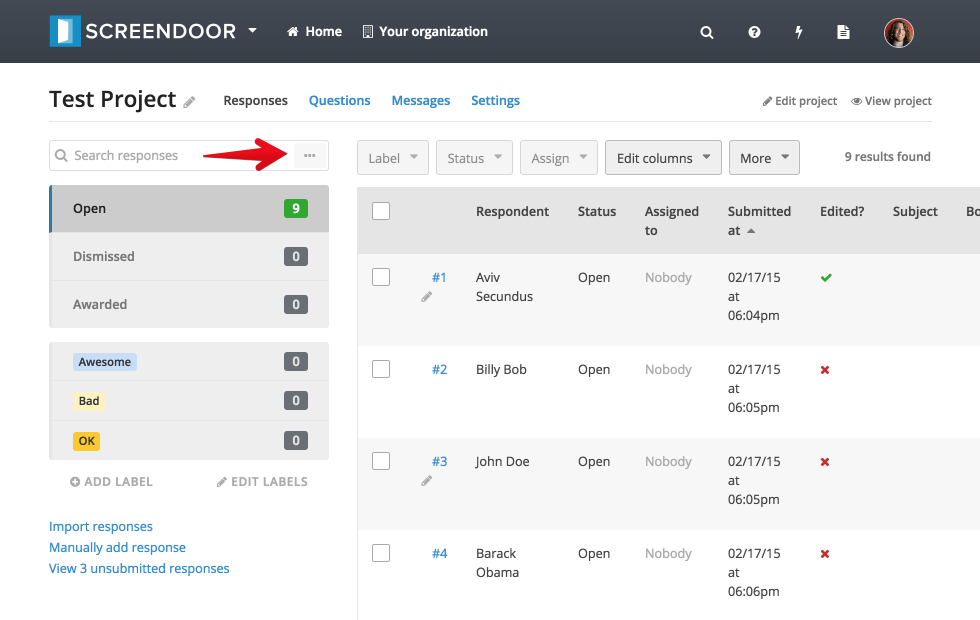
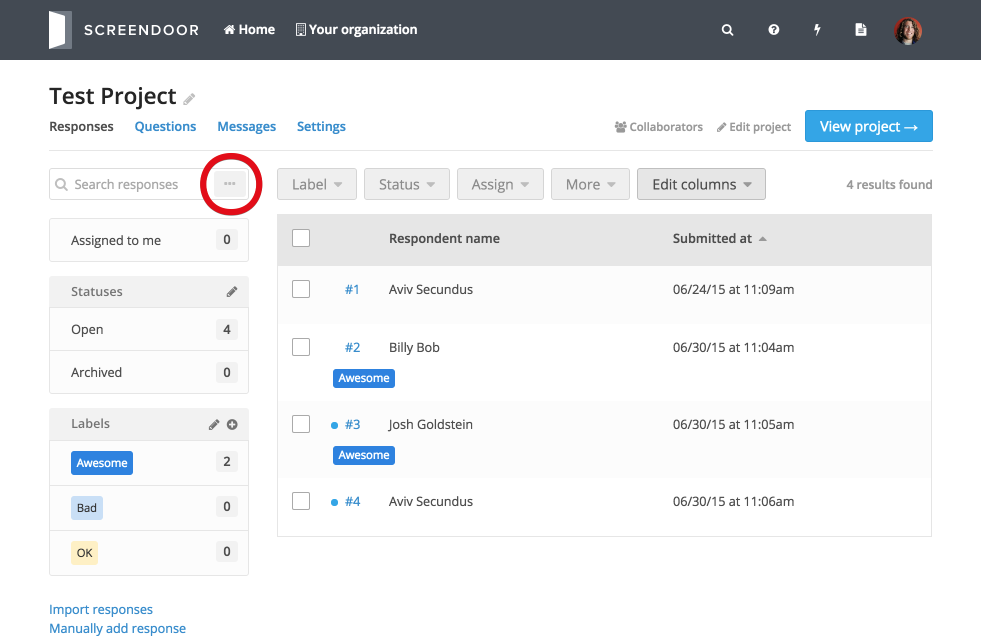
add saved searches
also move 'advanced search' to its own section
cf. https://github.com/dobtco/screendoor-v2/pull/2174

diff --git a/contents/articles/screendoor/responses/sorting_and_filtering_responses.md b/contents/articles/screendoor/responses/sorting_and_filtering_responses.md
@@ -33,15 +33,23 @@ To filter by status, select the box just below the search field that displays th
 
 You can also filter by label: just select the label you wish to use as a filter from the boxes just below the status selection, on the left-hand side of the "Responses" table. Note that to stop filtering by a label, click the label again to deselect it. A dark gray background indicates a label that is currently being used as a filter, while a light gray background indicates a label that is not currently being used as a filter.
 
-### Advanced search
+## Advanced search
 
 To perform an advanced search, click the "..." in the search bar on the "Responses" page.
 
 ![advanced search button](../images/advanced_search_button.png)
 
-From the "Advanced search" popup, you can create powerful custom search queries. Click "Add a filter" to filter by a variety of criteria. Then, click "Search" to find all responses that match your query.
+From the "Advanced search" popup, you can create powerful custom search queries. Click "Add a filter" to filter by a variety of criteria.
 
 ![advanced search filters](../images/advanced_search.png)
+
+Then, click "Search" to find all responses that match your query.
+
+![advanced search results](../images/advanced_search_results.png)
+
+### Saving an advanced search
+
+Click "Save search" to save your advanced search for later. You can then retrieve it from the "Saved searches" menu at any time.
 
 ## Assigning responses
 
